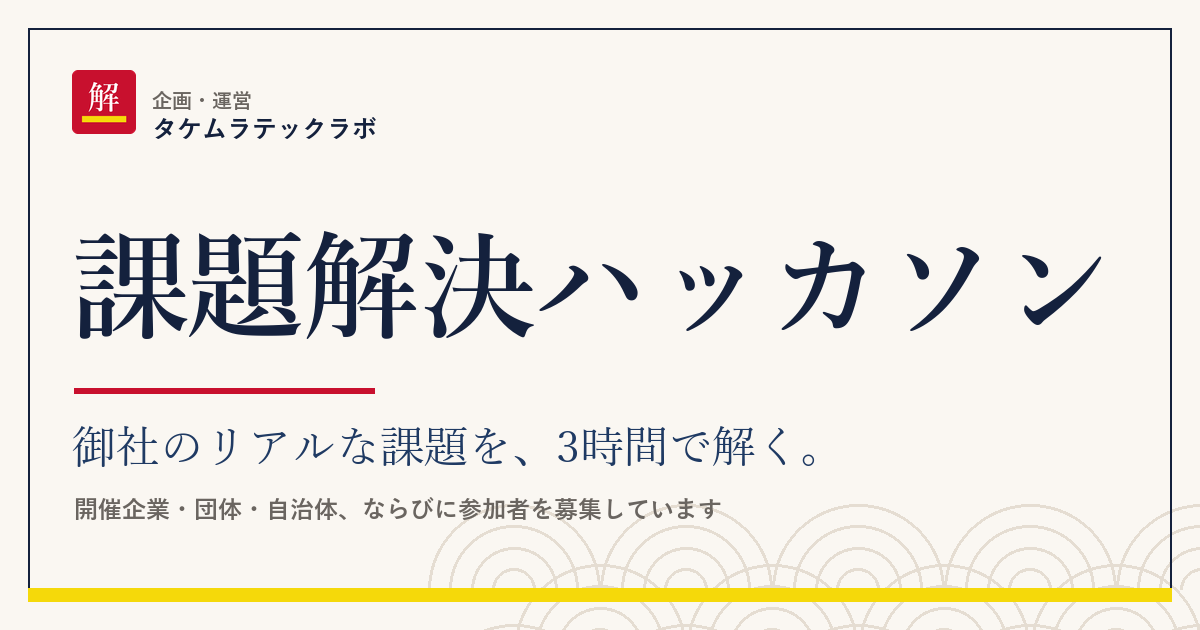
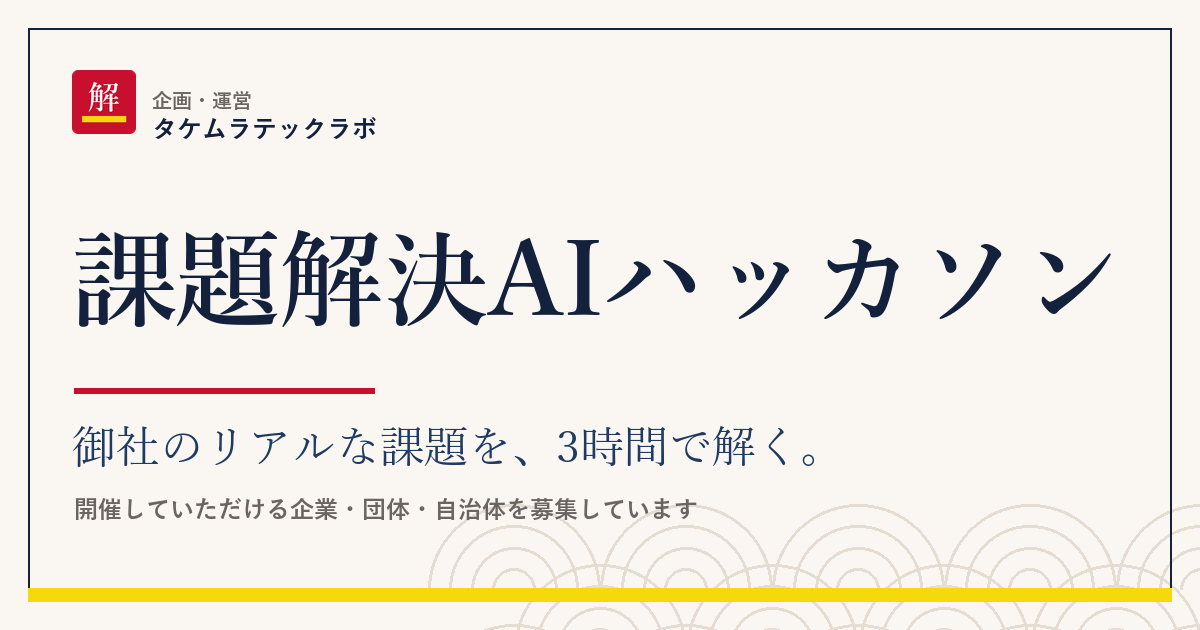
名称を「課題解決AIハッカソン」に変更
- 全ページの title / description / og / twitter / JSON-LD と本文表記を更新
- site.webmanifest、base.css のヘッダコメント、llms.txt も合わせて更新
- OG画像を新名称で再生成。あわせて下段の文言から「参加者を募集」を削除
  （参加者募集ページを非公開にしたため実態と合わなくなっていた）
- tools/create_form.gs の生成するフォーム名も新名称に

Changed region(s): [[0.0617, 0.3619, 0.925, 0.5429], [0.0925, 0.7841, 0.6167, 0.8444]]

diff --git a/index.html b/index.html
@@ -3,21 +3,21 @@
 <head>
 <meta charset="utf-8">
 <meta name="viewport" content="width=device-width,initial-scale=1">
-<title>課題解決ハッカソン | 開催企業・団体・自治体 募集</title>
+<title>課題解決AIハッカソン | 開催企業・団体・自治体 募集</title>
 <meta name="description" content="御社の課題を、ハッカソンのお題にしませんか。30分の課題説明のあと、AIもツールも自由に使う多様な参加者が、3時間で解決策のプロトタイプをつくります。御社の名前で開催し、お題は御社の課題だけ。開催していただける企業・団体・自治体を募集しています。">
 <link rel="canonical" href="https://hackathon.takemura-techlab.com/">
 <meta property="og:type" content="website">
 <meta property="og:url" content="https://hackathon.takemura-techlab.com/">
-<meta property="og:site_name" content="課題解決ハッカソン">
-<meta property="og:title" content="課題解決ハッカソン | 開催企業・団体・自治体 募集">
+<meta property="og:site_name" content="課題解決AIハッカソン">
+<meta property="og:title" content="課題解決AIハッカソン | 開催企業・団体・自治体 募集">
 <meta property="og:description" content="御社の課題を、3時間で解いてもらいませんか。御社の名前で開催し、お題は御社の課題だけ。開催していただける企業・団体・自治体を募集しています。">
 <meta property="og:locale" content="ja_JP">
 <meta property="og:image" content="https://hackathon.takemura-techlab.com/assets/og.png">
 <meta property="og:image:width" content="1200">
 <meta property="og:image:height" content="630">
-<meta property="og:image:alt" content="課題解決ハッカソン｜御社のリアルな課題を、3時間で解く。">
+<meta property="og:image:alt" content="課題解決AIハッカソン｜御社のリアルな課題を、3時間で解く。">
 <meta name="twitter:card" content="summary_large_image">
-<meta name="twitter:title" content="課題解決ハッカソン | 開催企業・団体・自治体 募集">
+<meta name="twitter:title" content="課題解決AIハッカソン | 開催企業・団体・自治体 募集">
 <meta name="twitter:description" content="御社の課題を、3時間で解いてもらいませんか。御社の名前で開催し、お題は御社の課題だけ。開催していただける企業・団体・自治体を募集しています。">
 <meta name="twitter:image" content="https://hackathon.takemura-techlab.com/assets/og.png">
 <meta name="theme-color" content="#14213D">
@@ -35,7 +35,7 @@
       "@type": "WebPage",
       "@id": "https://hackathon.takemura-techlab.com/#webpage",
       "url": "https://hackathon.takemura-techlab.com/",
-      "name": "課題解決ハッカソン | 開催企業・団体・自治体 募集",
+      "name": "課題解決AIハッカソン | 開催企業・団体・自治体 募集",
       "description": "御社の課題を、ハッカソンのお題にしませんか。30分の課題説明のあと、AIもツールも自由に使う多様な参加者が、3時間で解決策のプロトタイプをつくります。",
       "inLanguage": "ja",
       "isPartOf": {
@@ -47,7 +47,7 @@
       "@type": "WebSite",
       "@id": "https://hackathon.takemura-techlab.com/#website",
       "url": "https://hackathon.takemura-techlab.com/",
-      "name": "課題解決ハッカソン",
+      "name": "課題解決AIハッカソン",
       "description": "企業・団体・自治体のリアルな課題を、3時間で解くハッカソン。開催組織の名前で開催し、お題はその組織の課題だけ。",
       "inLanguage": "ja",
       "publisher": {
@@ -61,7 +61,7 @@
       "url": "https://www.takemura-techlab.com/",
       "contactPoint": {
         "@type": "ContactPoint",
-        "contactType": "課題解決ハッカソンの開催に関するお問い合わせ",
+        "contactType": "課題解決AIハッカソンの開催に関するお問い合わせ",
         "url": "https://docs.google.com/forms/d/e/1FAIpQLSdqF6zTHy1FcrTwisj3spcSjbNSmDsYDBSvg0FKt8h5r3_-IQ/viewform",
         "availableLanguage": [
           "ja"
@@ -72,7 +72,7 @@
     {
       "@type": "Service",
       "@id": "https://hackathon.takemura-techlab.com/#service",
-      "name": "課題解決ハッカソンの企画・運営",
+      "name": "課題解決AIハッカソンの企画・運営",
       "serviceType": "ハッカソンの企画・運営",
       "description": "企業・団体・自治体が実際に抱えている課題をお題に、その組織の名前でハッカソンを開催する。30分の課題説明のあと、参加者が3時間で解決策のプロトタイプをつくる。",
       "provider": {
@@ -233,7 +233,7 @@
               <span class="l"><span class="hl">3</span>時間で<span class="nb">解きます。</span></span>
             </span>
             <span class="run">YOUR CHALLENGE → OUR HACK</span>
-            <span class="ev"><span class="nb">「御社名」</span><span class="nb">課題解決ハッカソン</span><span class="en">CALL FOR HOST COMPANIES</span></span>
+            <span class="ev"><span class="nb">「御社名」</span><span class="nb">課題解決AIハッカソン</span><span class="en">CALL FOR HOST COMPANIES</span></span>
           </h1>
           <div class="btns">
             <a class="btn big" href="#contact">話を聞きたい</a>
@@ -498,7 +498,7 @@
         <h2>募集概要</h2>
       </div>
       <div class="ov">
-        <div class="ov-row"><div class="l">イベント名</div><div class="v">「御社名」課題解決ハッカソン <small>例：株式会社●●産業 課題解決ハッカソン</small></div></div>
+        <div class="ov-row"><div class="l">イベント名</div><div class="v">「御社名」課題解決AIハッカソン <small>例：株式会社●●産業 課題解決AIハッカソン</small></div></div>
         <div class="ov-row"><div class="l">構成</div><div class="v">課題説明 30分 ＋ ハックタイム 3時間 ＋ 発表・審査</div></div>
         <div class="ov-row"><div class="l">募集対象</div><div class="v">企業・団体・自治体 <small>業種・規模は問いません</small><small>このページでは、企業・団体・自治体をまとめて「御社」と表記しています</small></div></div>
         <div class="ov-row"><div class="l">開催形式</div><div class="v">1回につき1社 <small>参加者全員が御社の課題に取り組みます</small></div></div>
@@ -551,8 +551,8 @@
 
   <div class="ticker lm" aria-hidden="true">
     <div class="ticker-in">
-      <span class="tk">YOUR CHALLENGE → OUR HACK<b>✦</b>開催企業・団体・自治体 募集中<b>✦</b>「御社名」課題解決ハッカソン<b>✦</b>まずはお気軽にご相談ください<b>✦</b></span>
-      <span class="tk">YOUR CHALLENGE → OUR HACK<b>✦</b>開催企業・団体・自治体 募集中<b>✦</b>「御社名」課題解決ハッカソン<b>✦</b>まずはお気軽にご相談ください<b>✦</b></span>
+      <span class="tk">YOUR CHALLENGE → OUR HACK<b>✦</b>開催企業・団体・自治体 募集中<b>✦</b>「御社名」課題解決AIハッカソン<b>✦</b>まずはお気軽にご相談ください<b>✦</b></span>
+      <span class="tk">YOUR CHALLENGE → OUR HACK<b>✦</b>開催企業・団体・自治体 募集中<b>✦</b>「御社名」課題解決AIハッカソン<b>✦</b>まずはお気軽にご相談ください<b>✦</b></span>
     </div>
   </div>
   <footer>

diff --git a/company/index.html b/company/index.html
@@ -3,7 +3,7 @@
 <head>
 <meta charset="utf-8">
 <meta name="viewport" content="width=device-width,initial-scale=1">
-<title>課題解決ハッカソン | 開催企業・団体・自治体 募集</title>
+<title>課題解決AIハッカソン | 開催企業・団体・自治体 募集</title>
 <meta name="description" content="御社の課題を、ハッカソンのお題にしませんか。開催していただける企業・団体・自治体を募集しています。">
 <link rel="canonical" href="https://hackathon.takemura-techlab.com/">
 <meta http-equiv="refresh" content="0; url=https://hackathon.takemura-techlab.com/">
@@ -24,7 +24,7 @@
   <div>
     <h1>このページは移動しました</h1>
     <p>開催企業・団体・自治体向けの内容は、トップページに統合されました。<br>自動で移動しない場合は、下のリンクからお進みください。</p>
-    <a href="https://hackathon.takemura-techlab.com/">課題解決ハッカソン トップへ →</a>
+    <a href="https://hackathon.takemura-techlab.com/">課題解決AIハッカソン トップへ →</a>
   </div>
 </div>
 </body>

diff --git a/assets/base.css b/assets/base.css
@@ -1,5 +1,5 @@
 /* ============================================================
-   課題解決ハッカソン 共通スタイル
+   課題解決AIハッカソン 共通スタイル
    広島の企業らしさ：朱（厳島の鳥居・カープの赤）× 瀬戸内の藍 × 広島レモン。
    見出しは明朝で落ち着きを、背景には瀬戸内の波（青海波）を敷く。
    面と影ではなく、罫線・余白・級数差で構造をつくる。

diff --git a/tools/make_images.py b/tools/make_images.py
@@ -83,7 +83,7 @@ def make_og():
 
     # 主見出し（枠内に収まる級数へ自動調整）
     inner = W - 72 * 2
-    head = "課題解決ハッカソン"
+    head = "課題解決AIハッカソン"
     d.text((72, 226), head, font=fit(d, head, MINCHO_B, 128, inner), fill=AI)
 
     # 朱の罫
@@ -92,7 +92,7 @@ def make_og():
     # 従見出し
     sub = "御社のリアルな課題を、3時間で解く。"
     d.text((72, 424), sub, font=fit(d, sub, MINCHO_R, 44, inner), fill=AI_MID)
-    d.text((74, 496), "開催企業・団体・自治体、ならびに参加者を募集しています",
+    d.text((74, 496), "開催していただける企業・団体・自治体を募集しています",
            font=font(GOTHIC_B, 24), fill=MUTED)
 
     # 下端：レモンの帯
